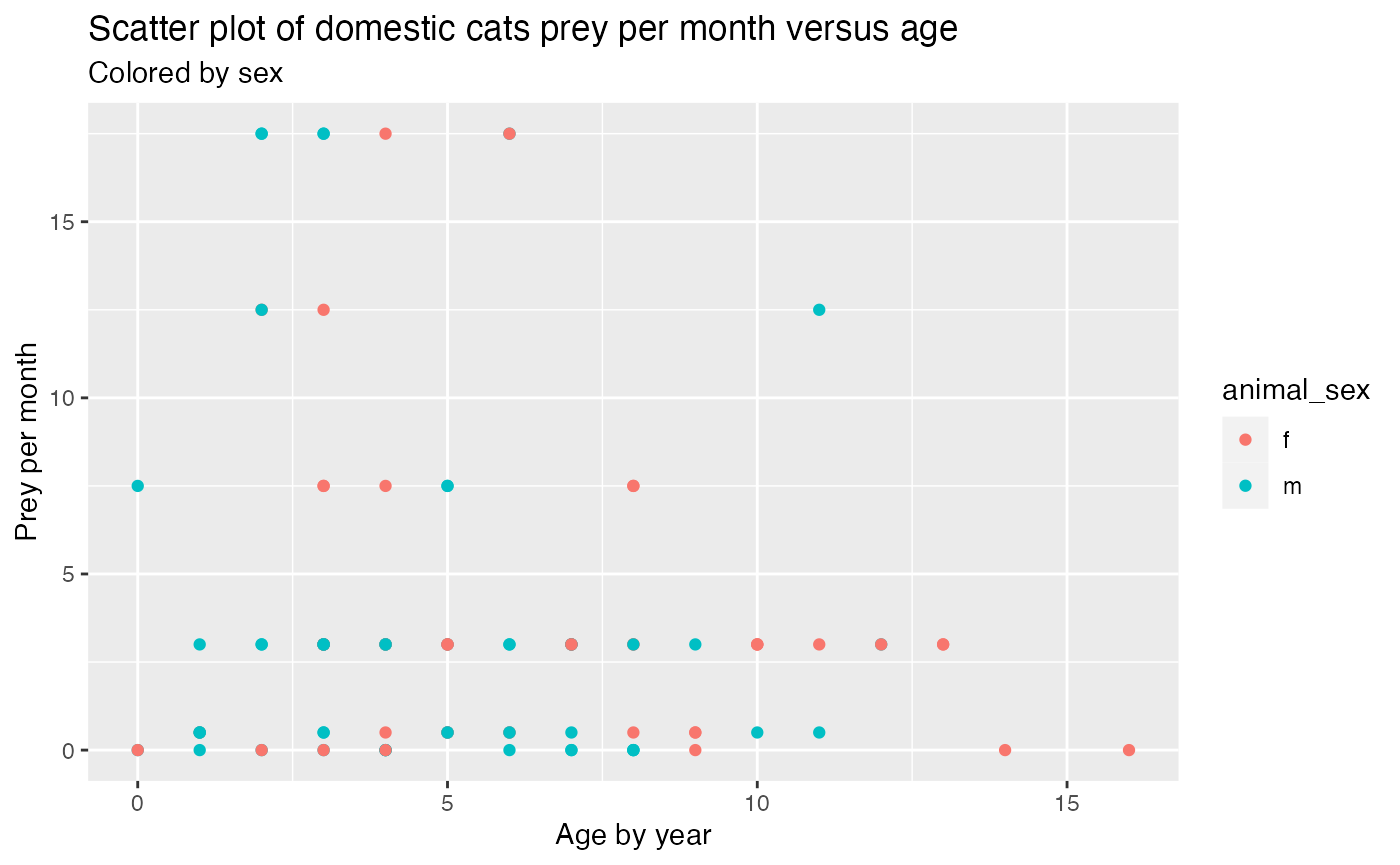
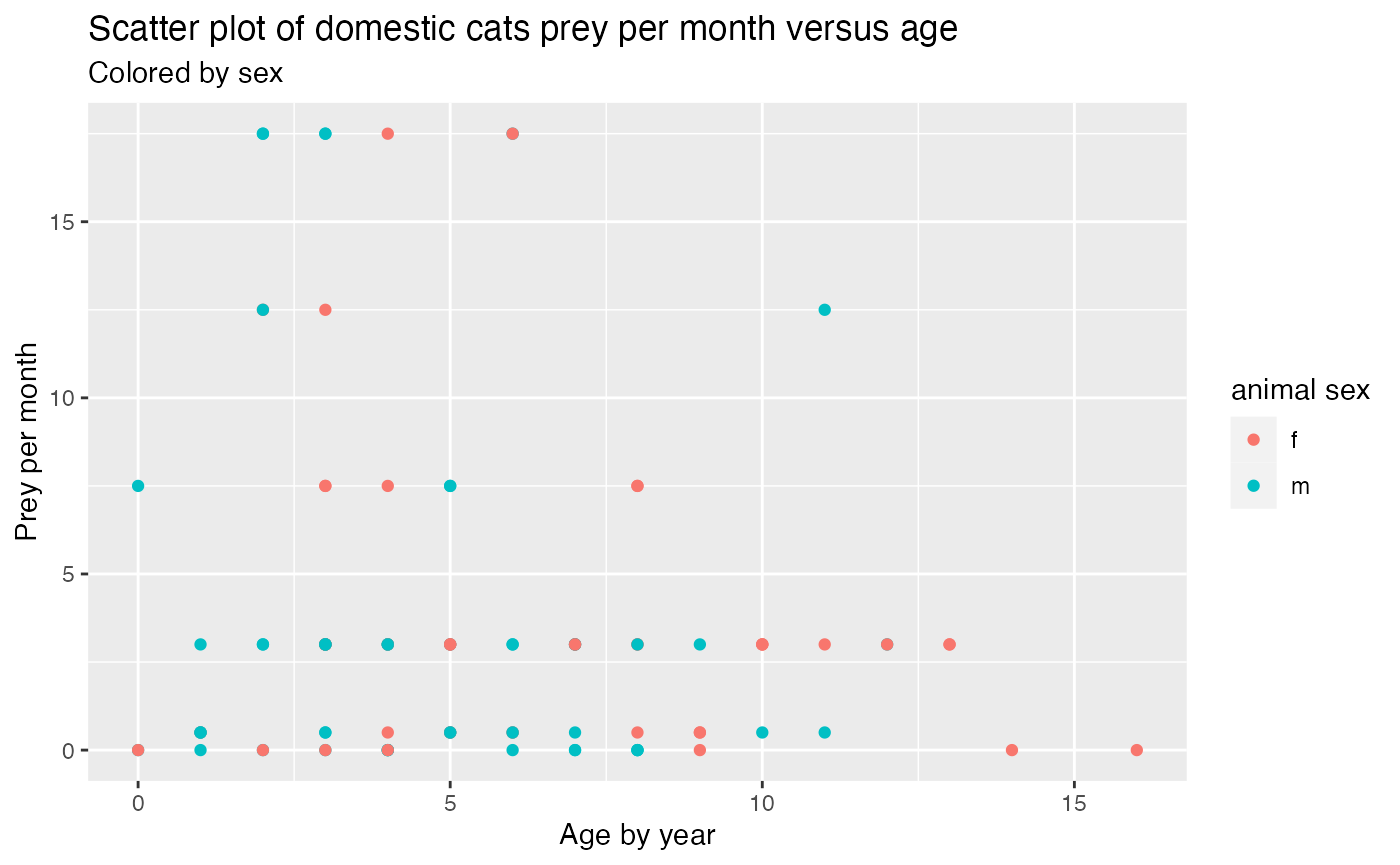
typos fixed; confirmed

diff --git a/docs/articles/Example-analysis.html b/docs/articles/Example-analysis.html
@@ -100,7 +100,7 @@
 <div class="section level3">
 <h3 id="question">Question<a class="anchor" aria-label="anchor" href="#question"></a>
 </h3>
-<p>What factors affect pet cat’s hours indoor?</p>
+<p>What factors affect domestic pet cat’s outdoor prey counts?</p>
 </div>
 <div class="section level3">
 <h3 id="data-source">Data Source<a class="anchor" aria-label="anchor" href="#data-source"></a>
@@ -151,7 +151,9 @@ will only run once if you first clone the directory</p>
 <p>First of all, let’s take a look at the basic information of the
 dataset</p>
 <p>The most basics are the mean and variance of some numeric variables.
-This is shown using <code>purrr</code> functions</p>
+This is shown using <code><a href="https://purrr.tidyverse.org/reference/map.html" class="external-link">map_dbl()</a></code> function in
+<code>purrr</code> package. <code><a href="https://purrr.tidyverse.org/reference/map.html" class="external-link">map_lgl()</a></code> is handy here for
+subsetting</p>
 <div class="sourceCode" id="cb4"><pre class="downlit sourceCode r">
 <code class="sourceCode R"><span><span class="fu"><a href="https://purrr.tidyverse.org/reference/map.html" class="external-link">map_dbl</a></span><span class="op">(</span><span class="va">df</span><span class="op">[</span><span class="fu"><a href="https://purrr.tidyverse.org/reference/map.html" class="external-link">map_lgl</a></span><span class="op">(</span><span class="va">df</span>, <span class="va">is.numeric</span><span class="op">)</span><span class="op">]</span>, <span class="va">mean</span>, na.rm <span class="op">=</span> <span class="cn">TRUE</span><span class="op">)</span></span>
 <span><span class="co">#&gt; prey_p_month  hrs_indoors       n_cats    age_years </span></span>
@@ -169,9 +171,10 @@ This is shown using <code>purrr</code> functions</p>
 <span><span class="co">#&gt; <span style="color: #BCBCBC;">1</span> f             44</span></span>
 <span><span class="co">#&gt; <span style="color: #BCBCBC;">2</span> m             57</span></span></code></pre></div>
 <p>There are 44 female cats and 57 male cats</p>
-<p>Below is a demonstration of our <code>waffle</code> package. We can
-visualize the counts of female and male in square pie charts, which is
-able to show the proportion of data more directly</p>
+<p>Below is a demonstration of the <code><a href="../reference/waffle.html">waffle()</a></code> function in our
+<code>waffle</code> package. We can visualize the counts of female and
+male in square pie charts, which is able to show the proportion of data
+more directly</p>
 <div class="sourceCode" id="cb6"><pre class="downlit sourceCode r">
 <code class="sourceCode R"><span><span class="va">df</span> <span class="op"><a href="https://magrittr.tidyverse.org/reference/pipe.html" class="external-link">%&gt;%</a></span> </span>
 <span>  <span class="fu"><a href="https://dplyr.tidyverse.org/reference/group_by.html" class="external-link">group_by</a></span><span class="op">(</span><span class="va">animal_sex</span><span class="op">)</span> <span class="op"><a href="https://magrittr.tidyverse.org/reference/pipe.html" class="external-link">%&gt;%</a></span></span>
@@ -182,6 +185,7 @@ able to show the proportion of data more directly</p>
 Fig 1: Proportion of male and female
 </p>
 </div>
+<p>We now go on to look at other variables</p>
 <div class="sourceCode" id="cb7"><pre class="downlit sourceCode r">
 <code class="sourceCode R"><span><span class="va">df</span> <span class="op"><a href="https://magrittr.tidyverse.org/reference/pipe.html" class="external-link">%&gt;%</a></span> </span>
 <span>  <span class="fu"><a href="https://dplyr.tidyverse.org/reference/filter.html" class="external-link">filter</a></span><span class="op">(</span><span class="op">!</span><span class="fu"><a href="https://rdrr.io/r/base/NA.html" class="external-link">is.na</a></span><span class="op">(</span><span class="va">animal_reproductive_condition</span><span class="op">)</span><span class="op">)</span><span class="op"><a href="https://magrittr.tidyverse.org/reference/pipe.html" class="external-link">%&gt;%</a></span> </span>
@@ -233,12 +237,15 @@ analysis.</p>
 <span><span class="co">#&gt; 5                      Neutered     TRUE          m         2</span></span>
 <span><span class="co">#&gt; 6                        Spayed     TRUE          f         6</span></span>
 <span><span class="co">#&gt; 7                      Neutered     TRUE          m         3</span></span></code></pre></div>
-<p>The highest per month is 17.5, all of them spend 7.5 hours in door;
-they are allowed to hunt, the number of cats in the household varies;
-all of them are neutered or spayed; all of them have dry food; Sex
-varies; age is in the lower to middle range.</p>
-<p>Below is a demonstration of <code>map</code> function from
-<code>purrr</code> package</p>
+<p>The highest prey count per month is 17.5, and all of them spend 7.5
+hours in door; they are allowed to hunt, the number of cats in the
+household varies; all of them are neutered or spayed; all of them have
+dry food; Sex varies; age is in the lower to middle range. These might
+be potential factors that affect prey counts</p>
+<p>Below is another demonstration of <code><a href="https://purrr.tidyverse.org/reference/map.html" class="external-link">map()</a></code> function from
+<code>purrr</code> package. We can easily create tables of the
+categorical variables now without repeating the similar lines of
+codes</p>
 <div class="sourceCode" id="cb11"><pre class="downlit sourceCode r">
 <code class="sourceCode R"><span><span class="fu"><a href="https://purrr.tidyverse.org/reference/map.html" class="external-link">map</a></span><span class="op">(</span><span class="va">df</span><span class="op">[</span>,<span class="fu"><a href="https://rdrr.io/r/base/c.html" class="external-link">c</a></span><span class="op">(</span><span class="st">"food_dry"</span>, <span class="st">"food_wet"</span>, <span class="st">"food_other"</span><span class="op">)</span><span class="op">]</span>, <span class="va">table</span>, useNA <span class="op">=</span> <span class="st">"ifany"</span><span class="op">)</span></span>
 <span><span class="co">#&gt; $food_dry</span></span>
@@ -260,7 +267,8 @@ than not eat. Some cats have no data on other types of food</p>
 <p>Another more compelling way to show this data is by graphics.</p>
 <p>Here is where we can put in another two functions in
 <code>waffle</code></p>
-<p><code>waffle</code> package can also work with ggplot</p>
+<p><code>waffle</code> package can also work with ggplot with the
+<code><a href="../reference/geom_waffle.html">geom_waffle()</a></code> function</p>
 <div class="sourceCode" id="cb12"><pre class="downlit sourceCode r">
 <code class="sourceCode R"><span><span class="va">df</span> <span class="op"><a href="https://magrittr.tidyverse.org/reference/pipe.html" class="external-link">%&gt;%</a></span></span>
 <span>  <span class="fu"><a href="https://dplyr.tidyverse.org/reference/count.html" class="external-link">count</a></span><span class="op">(</span><span class="va">food_dry</span><span class="op">)</span> <span class="op"><a href="https://magrittr.tidyverse.org/reference/pipe.html" class="external-link">%&gt;%</a></span></span>
@@ -336,7 +344,7 @@ higher prey per month on average as well.</p>
 <code class="sourceCode R"><span><span class="fu"><a href="https://ggplot2.tidyverse.org/reference/ggplot.html" class="external-link">ggplot</a></span><span class="op">(</span><span class="va">df</span><span class="op">[</span><span class="op">!</span><span class="fu"><a href="https://rdrr.io/r/base/NA.html" class="external-link">is.na</a></span><span class="op">(</span><span class="va">df</span><span class="op">$</span><span class="va">age_years</span><span class="op">)</span>,<span class="op">]</span>, <span class="fu"><a href="https://ggplot2.tidyverse.org/reference/aes.html" class="external-link">aes</a></span><span class="op">(</span>x<span class="op">=</span><span class="va">age_years</span>, y<span class="op">=</span><span class="va">prey_p_month</span>, color <span class="op">=</span> <span class="va">animal_sex</span><span class="op">)</span><span class="op">)</span> <span class="op">+</span> </span>
 <span>  <span class="fu"><a href="https://ggplot2.tidyverse.org/reference/geom_point.html" class="external-link">geom_point</a></span><span class="op">(</span><span class="op">)</span> <span class="op">+</span> </span>
 <span>  <span class="fu"><a href="https://ggplot2.tidyverse.org/reference/labs.html" class="external-link">ggtitle</a></span><span class="op">(</span><span class="st">"Scatter plot of domestic cats prey per month versus age"</span>, subtitle <span class="op">=</span> <span class="st">"Colored by sex"</span><span class="op">)</span> <span class="op">+</span> </span>
-<span>  <span class="fu"><a href="https://ggplot2.tidyverse.org/reference/labs.html" class="external-link">xlab</a></span><span class="op">(</span><span class="st">"Age by year"</span><span class="op">)</span> <span class="op">+</span> <span class="fu"><a href="https://ggplot2.tidyverse.org/reference/labs.html" class="external-link">ylab</a></span><span class="op">(</span><span class="st">"Prey per month"</span><span class="op">)</span></span></code></pre></div>
+<span>  <span class="fu"><a href="https://ggplot2.tidyverse.org/reference/labs.html" class="external-link">xlab</a></span><span class="op">(</span><span class="st">"Age by year"</span><span class="op">)</span> <span class="op">+</span> <span class="fu"><a href="https://ggplot2.tidyverse.org/reference/labs.html" class="external-link">ylab</a></span><span class="op">(</span><span class="st">"Prey per month"</span><span class="op">)</span> <span class="op">+</span> <span class="fu"><a href="https://ggplot2.tidyverse.org/reference/labs.html" class="external-link">labs</a></span><span class="op">(</span>colour<span class="op">=</span><span class="st">"animal sex"</span><span class="op">)</span></span></code></pre></div>
 <div class="figure">
 <img src="Example-analysis_files/figure-html/unnamed-chunk-16-1.png" alt="Fig 4: Comparison between prey counts and age" width="700"><p class="caption">
 Fig 4: Comparison between prey counts and age

diff --git a/docs/index.html b/docs/index.html
@@ -81,7 +81,7 @@
 <p>Create Waffle Chart Visualizations</p>
 <p>Github Link to the original package: <a href="https://github.com/hrbrmstr/waffle" class="external-link">waffle</a></p>
 <p>Link to deplopyed website: <a href="https://jhu-statprogramming-fall-2023.github.io/biostat777-project3-part1-yanxiliu230/" class="external-link uri">https://jhu-statprogramming-fall-2023.github.io/biostat777-project3-part1-yanxiliu230/</a></p>
-<p>Customization: 1. change background color to gray and foreground text color darker gray 2. code block syntax highlighting theme to a11y-light 3. link color to purple 4. change base font to Lato, and head font to Roboto Slab 5. edit the navbar to put article to the right side</p>
+<p>Customization: 1. change background color to gray and foreground text color darker gray 2. code block syntax highlighting theme to a11y-light 3. link color and hover color to purple 4. change base font to Lato, and head font to Roboto Slab 5. edit the navbar to put article to the right side</p>
 <p>Original Author: Bob Rudis, Dave Gandy, Nora Liu</p>
 <div class="section level2">
 <h2 id="goal-and-description">Goal and Description<a class="anchor" aria-label="anchor" href="#goal-and-description"></a>

diff --git a/README.md b/README.md
@@ -10,7 +10,7 @@ Link to deplopyed website: https://jhu-statprogramming-fall-2023.github.io/biost
 Customization:
 1. change background color to gray and foreground text color darker gray
 2. code block syntax highlighting theme to a11y-light
-3. link color to purple
+3. link color and hover color to purple
 4. change base font to Lato, and head font to Roboto Slab
 5. edit the navbar to put article to the right side
 
